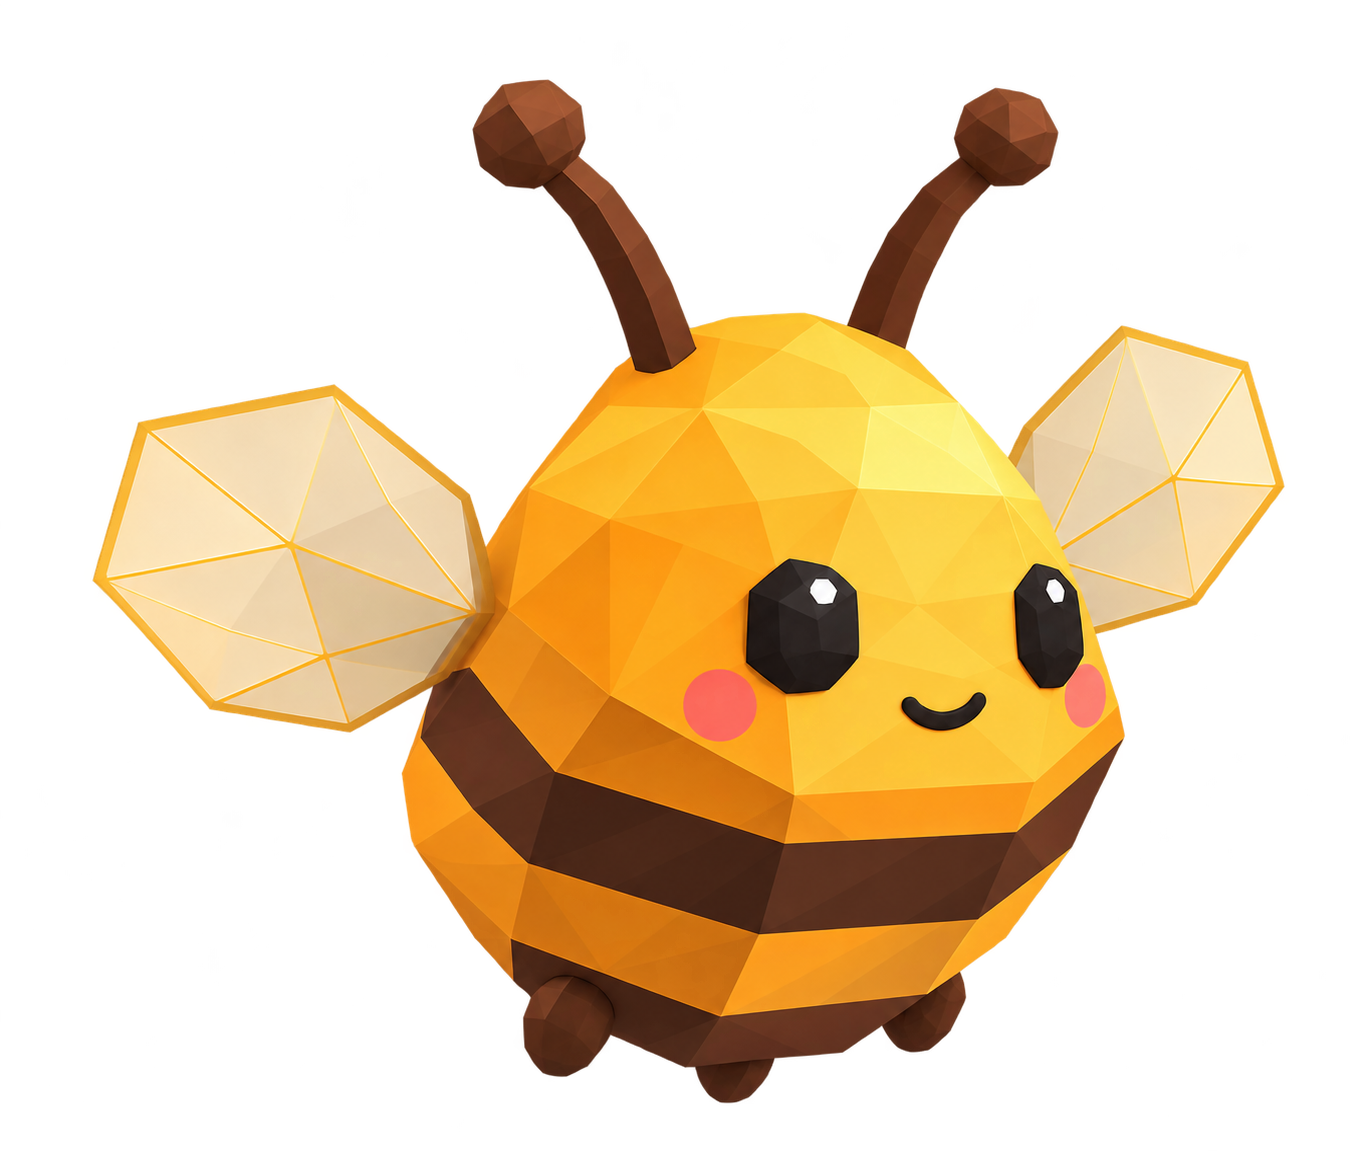
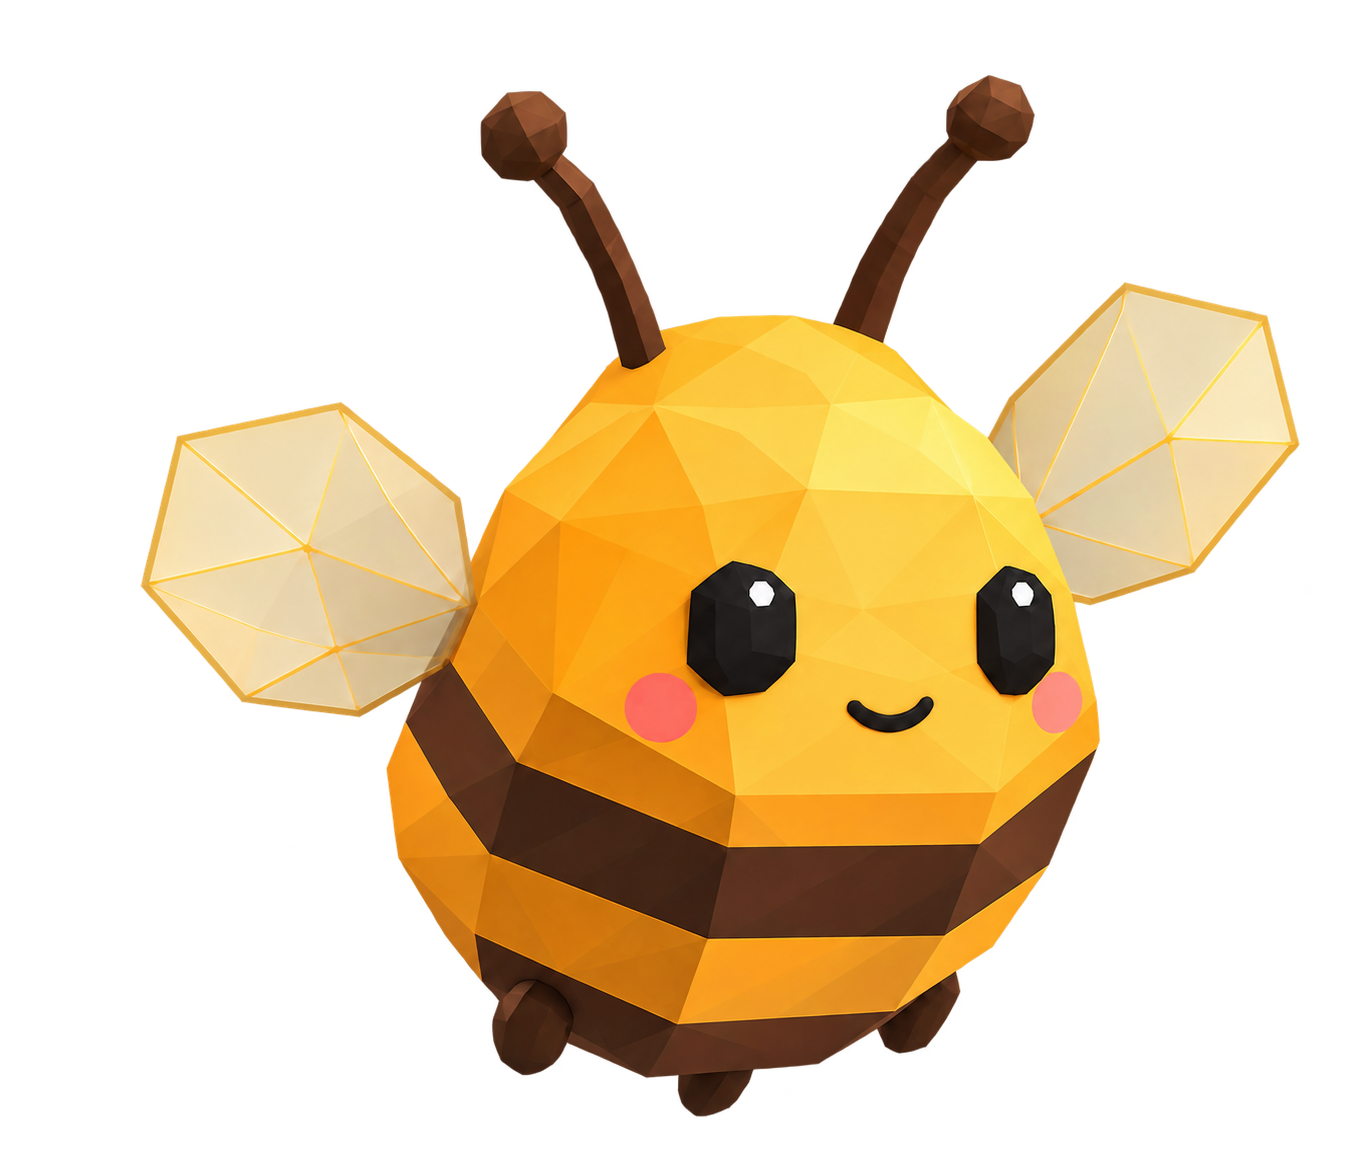
docs(art): anchor turnaround to exact approved Zhuzha reference

Changed region(s): [[0.0615, 0.0608, 0.9531, 0.9731], [0.4305, 0.4561, 0.4612, 0.4865]]

diff --git a/design/3d/turnaround/README.ru.md b/design/3d/turnaround/README.ru.md
@@ -1,28 +1,15 @@
-# Жужа: лист ракурсов, этап согласования 1–2
+# Жужа: ракурсы по исходному эталону, revision 2
 
-Статус: пробные рисунки, НЕ утверждены. Остальные стороны и 3D не создавались: по заданию сначала требуется оценка владельцем первых двух ракурсов.
+Статус: фронтальный вид ожидает согласования. Полный лист и 3D не готовы.
 
-## Файлы
+q3-front.png — побайтовая копия zhuzha-base.png. Утверждённый ракурс не нужно повторно генерировать: предыдущая перерисовка внесла дрейф. Угол исходного рисунка приблизительный, не измерен как 35°.
 
-- front.png — новая генерация строго спереди.
-- q3-front.png — новая генерация три четверти спереди, примерно 35°; точность угла визуальная, не геометрическая.
-- compare.png — слева исходный утверждённый zhuzha-base.png, затем два пробных ракурса. Высота каждого персонажа от кончиков усиков до лапок одинакова. Это нормализация масштаба для просмотра, не доказательство геометрической согласованности.
-- prompts.json — точные полные промпты и параметры.
+front.png заново создан напрямую по zhuzha-base.png через встроенный image_gen.imagegen с transparent_background=true. Старые генерации НЕ использовались как референс. Точный промпт в prompts.json. Модель/seed/разрешение инструментом не выбирались. PNG сохранён без ретуши. Платный внешний сервис не использовался.
 
-## Инструмент и настройки
+В промпте зафиксированы исходные размеры улыбки, усиков, глаз, корпуса и крыльев. Результат сохраняет характер и палитру, но фронтальная анатомия всё ещё интерпретация: взаимное расположение глаз, раскладка граней и симметричные крылья придуманы. Улыбка и кончики усиков визуально не совпадают идеально; не считать исправление точным переносом геометрии. Требуется оценка владельца до боковых/задних видов.
 
-Встроенная генерация image_gen.imagegen, transparent_background=true. Отдельная генерация каждого PNG. Для front использован только assets/art/bees-prototype/zhuzha-base.png. Для q3-front переданы этот эталон и уже полученный front. Корона просмотрена для знакомства, но не передавалась в генерацию. Модель, разрешение и seed инструментом не выбирались; исходные PNG сохранены без ретуши. Общий лист составлен средствами Pillow: только расположение и пропорциональное уменьшение, без перерисовки. Не использованы процедурный 3D-рендер или платный внешний API.
+compare.png: исходный эталон слева, новый front справа. Высота от усиков до лапок нормализована; лист собран Pillow без художественной ретуши. Это визуальная сверка, не доказательство пространственной согласованности.
 
-## Сравнение и сомнения
+archive-v1/ сохраняет предыдущие неутверждённые рисунки и промпты. Бок, спина, верх и крупные планы пока не создавались: по заданию сначала утвердить виды 1–2. Затем каждый новый вид строить по исходному эталону и согласованным соседним изображениям, отмечая придуманные детали.
 
-Сохранены цельный корпус, медовые оттенки, тёмные гранёные глаза, щёки, улыбка, усики, лапки, золотистые геометрические крылья и нижние полосы. Спереди глаза и крылья симметричнее, что соответствует смене ракурса.
-
-Однако новые улыбки крупнее эталона, передний корпус кажется шире, а кончики усиков — крупнее. В q3-front лицо смещено правее, заметная левая сторона шире; угол и соотношение ширины крыльев требуют оценки. Рисунки визуально близки, но единую пространственную анатомию пока не доказывают. Количество граней не подсчитывалось: 100–150 было ориентиром промпта. У эталона читается широкая основная коричневая полоса и нижняя коричневая область; дополнительную новую полосу не добавлял ради буквального выполнения противоречащего рисунку описания.
-
-Придумано: фронтальная симметрия и невидимые на эталоне участки фронтального корпуса; новая раскладка граней. Спина, профиль и верх пока не придуманы и не утверждены.
-
-## Источники и ограничения
-
-Прочитаны HANDOFF_CLAUDE.ru.md, design/art/BEE_STYLE_AND_MOTION.ru.md, outputs/ASSETS_CATALOG.ru.md. Открыты оба эталонных PNG и outputs/zhuzha-turnaround-v2/comparison.png. После git fetch в origin/codex/zhuzha-style-prototype отсутствует design/3d/zhuzha/README.ru.md и previews/: эту дополнительную попытку изучить невозможно по текущим файлам.
-
-Следующий шаг только после согласования front и q3-front: бок, задние ракурсы, верх и крупные планы; каждый новый ракурс сверять с утверждёнными соседними. Основная игра, 2D-ассеты и режим beePreview не изменены.
+Прочитаны HANDOFF_CLAUDE.ru.md, design/art/BEE_STYLE_AND_MOTION.ru.md, outputs/ASSETS_CATALOG.ru.md; просмотрены оба эталона и отклонённое сравнение outputs/zhuzha-turnaround-v2/comparison.png. Папка design/3d/zhuzha отсутствует в текущей удалённой ветке. Игра и утверждённые 2D-ассеты не изменены.

diff --git a/design/3d/turnaround/archive-v1/README.ru.md b/design/3d/turnaround/archive-v1/README.ru.md
@@ -1,0 +1,28 @@
+# Жужа: лист ракурсов, этап согласования 1–2
+
+Статус: пробные рисунки, НЕ утверждены. Остальные стороны и 3D не создавались: по заданию сначала требуется оценка владельцем первых двух ракурсов.
+
+## Файлы
+
+- front.png — новая генерация строго спереди.
+- q3-front.png — новая генерация три четверти спереди, примерно 35°; точность угла визуальная, не геометрическая.
+- compare.png — слева исходный утверждённый zhuzha-base.png, затем два пробных ракурса. Высота каждого персонажа от кончиков усиков до лапок одинакова. Это нормализация масштаба для просмотра, не доказательство геометрической согласованности.
+- prompts.json — точные полные промпты и параметры.
+
+## Инструмент и настройки
+
+Встроенная генерация image_gen.imagegen, transparent_background=true. Отдельная генерация каждого PNG. Для front использован только assets/art/bees-prototype/zhuzha-base.png. Для q3-front переданы этот эталон и уже полученный front. Корона просмотрена для знакомства, но не передавалась в генерацию. Модель, разрешение и seed инструментом не выбирались; исходные PNG сохранены без ретуши. Общий лист составлен средствами Pillow: только расположение и пропорциональное уменьшение, без перерисовки. Не использованы процедурный 3D-рендер или платный внешний API.
+
+## Сравнение и сомнения
+
+Сохранены цельный корпус, медовые оттенки, тёмные гранёные глаза, щёки, улыбка, усики, лапки, золотистые геометрические крылья и нижние полосы. Спереди глаза и крылья симметричнее, что соответствует смене ракурса.
+
+Однако новые улыбки крупнее эталона, передний корпус кажется шире, а кончики усиков — крупнее. В q3-front лицо смещено правее, заметная левая сторона шире; угол и соотношение ширины крыльев требуют оценки. Рисунки визуально близки, но единую пространственную анатомию пока не доказывают. Количество граней не подсчитывалось: 100–150 было ориентиром промпта. У эталона читается широкая основная коричневая полоса и нижняя коричневая область; дополнительную новую полосу не добавлял ради буквального выполнения противоречащего рисунку описания.
+
+Придумано: фронтальная симметрия и невидимые на эталоне участки фронтального корпуса; новая раскладка граней. Спина, профиль и верх пока не придуманы и не утверждены.
+
+## Источники и ограничения
+
+Прочитаны HANDOFF_CLAUDE.ru.md, design/art/BEE_STYLE_AND_MOTION.ru.md, outputs/ASSETS_CATALOG.ru.md. Открыты оба эталонных PNG и outputs/zhuzha-turnaround-v2/comparison.png. После git fetch в origin/codex/zhuzha-style-prototype отсутствует design/3d/zhuzha/README.ru.md и previews/: эту дополнительную попытку изучить невозможно по текущим файлам.
+
+Следующий шаг только после согласования front и q3-front: бок, задние ракурсы, верх и крупные планы; каждый новый ракурс сверять с утверждёнными соседними. Основная игра, 2D-ассеты и режим beePreview не изменены.
